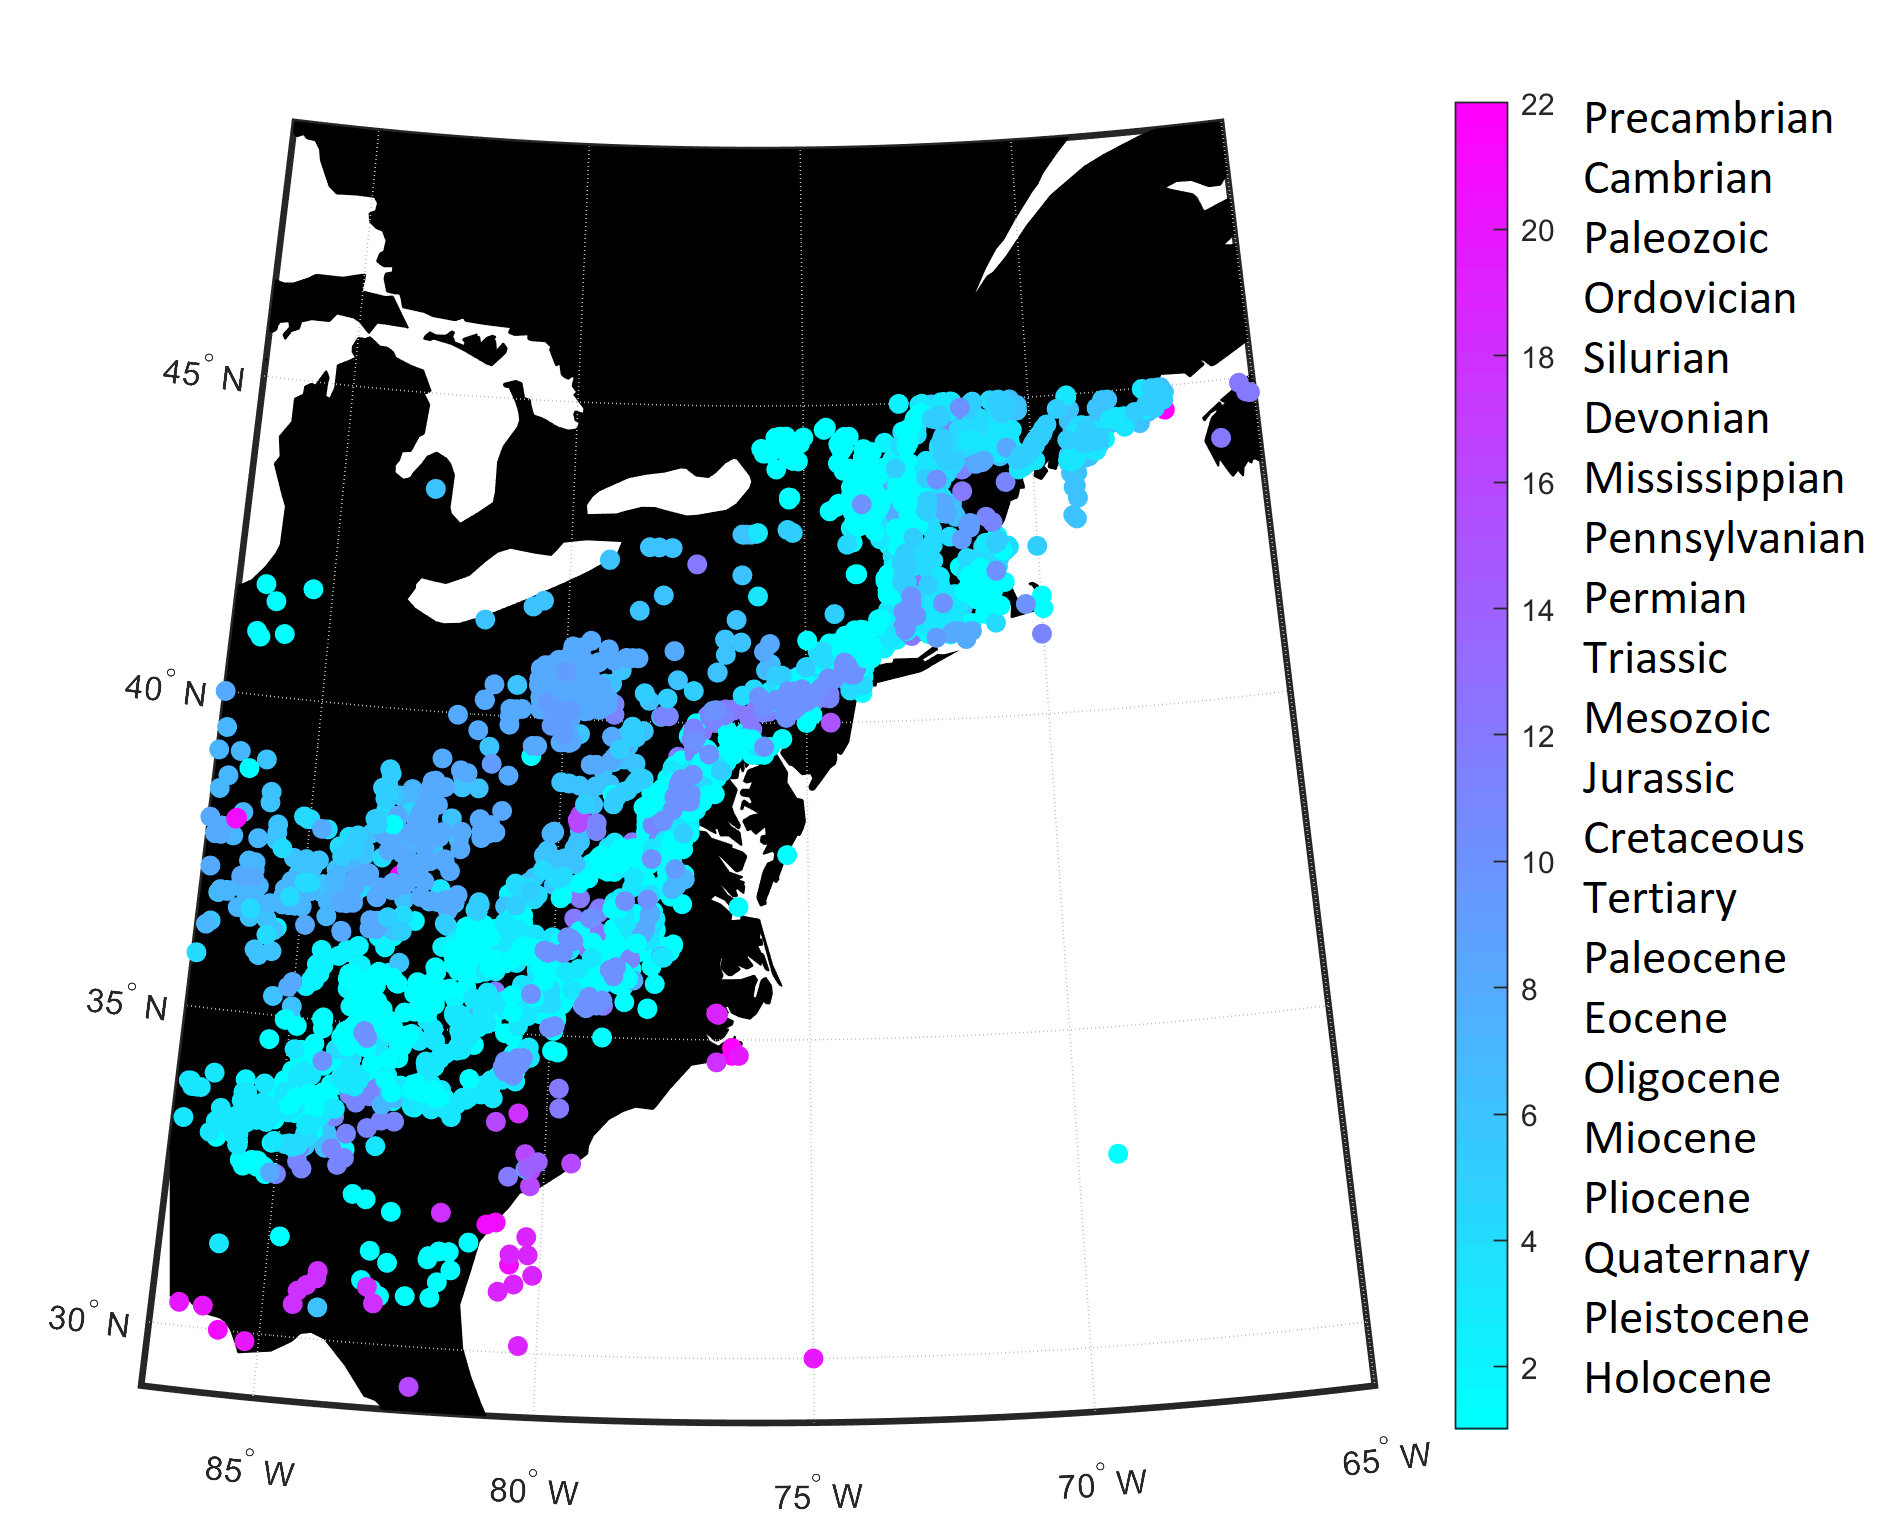
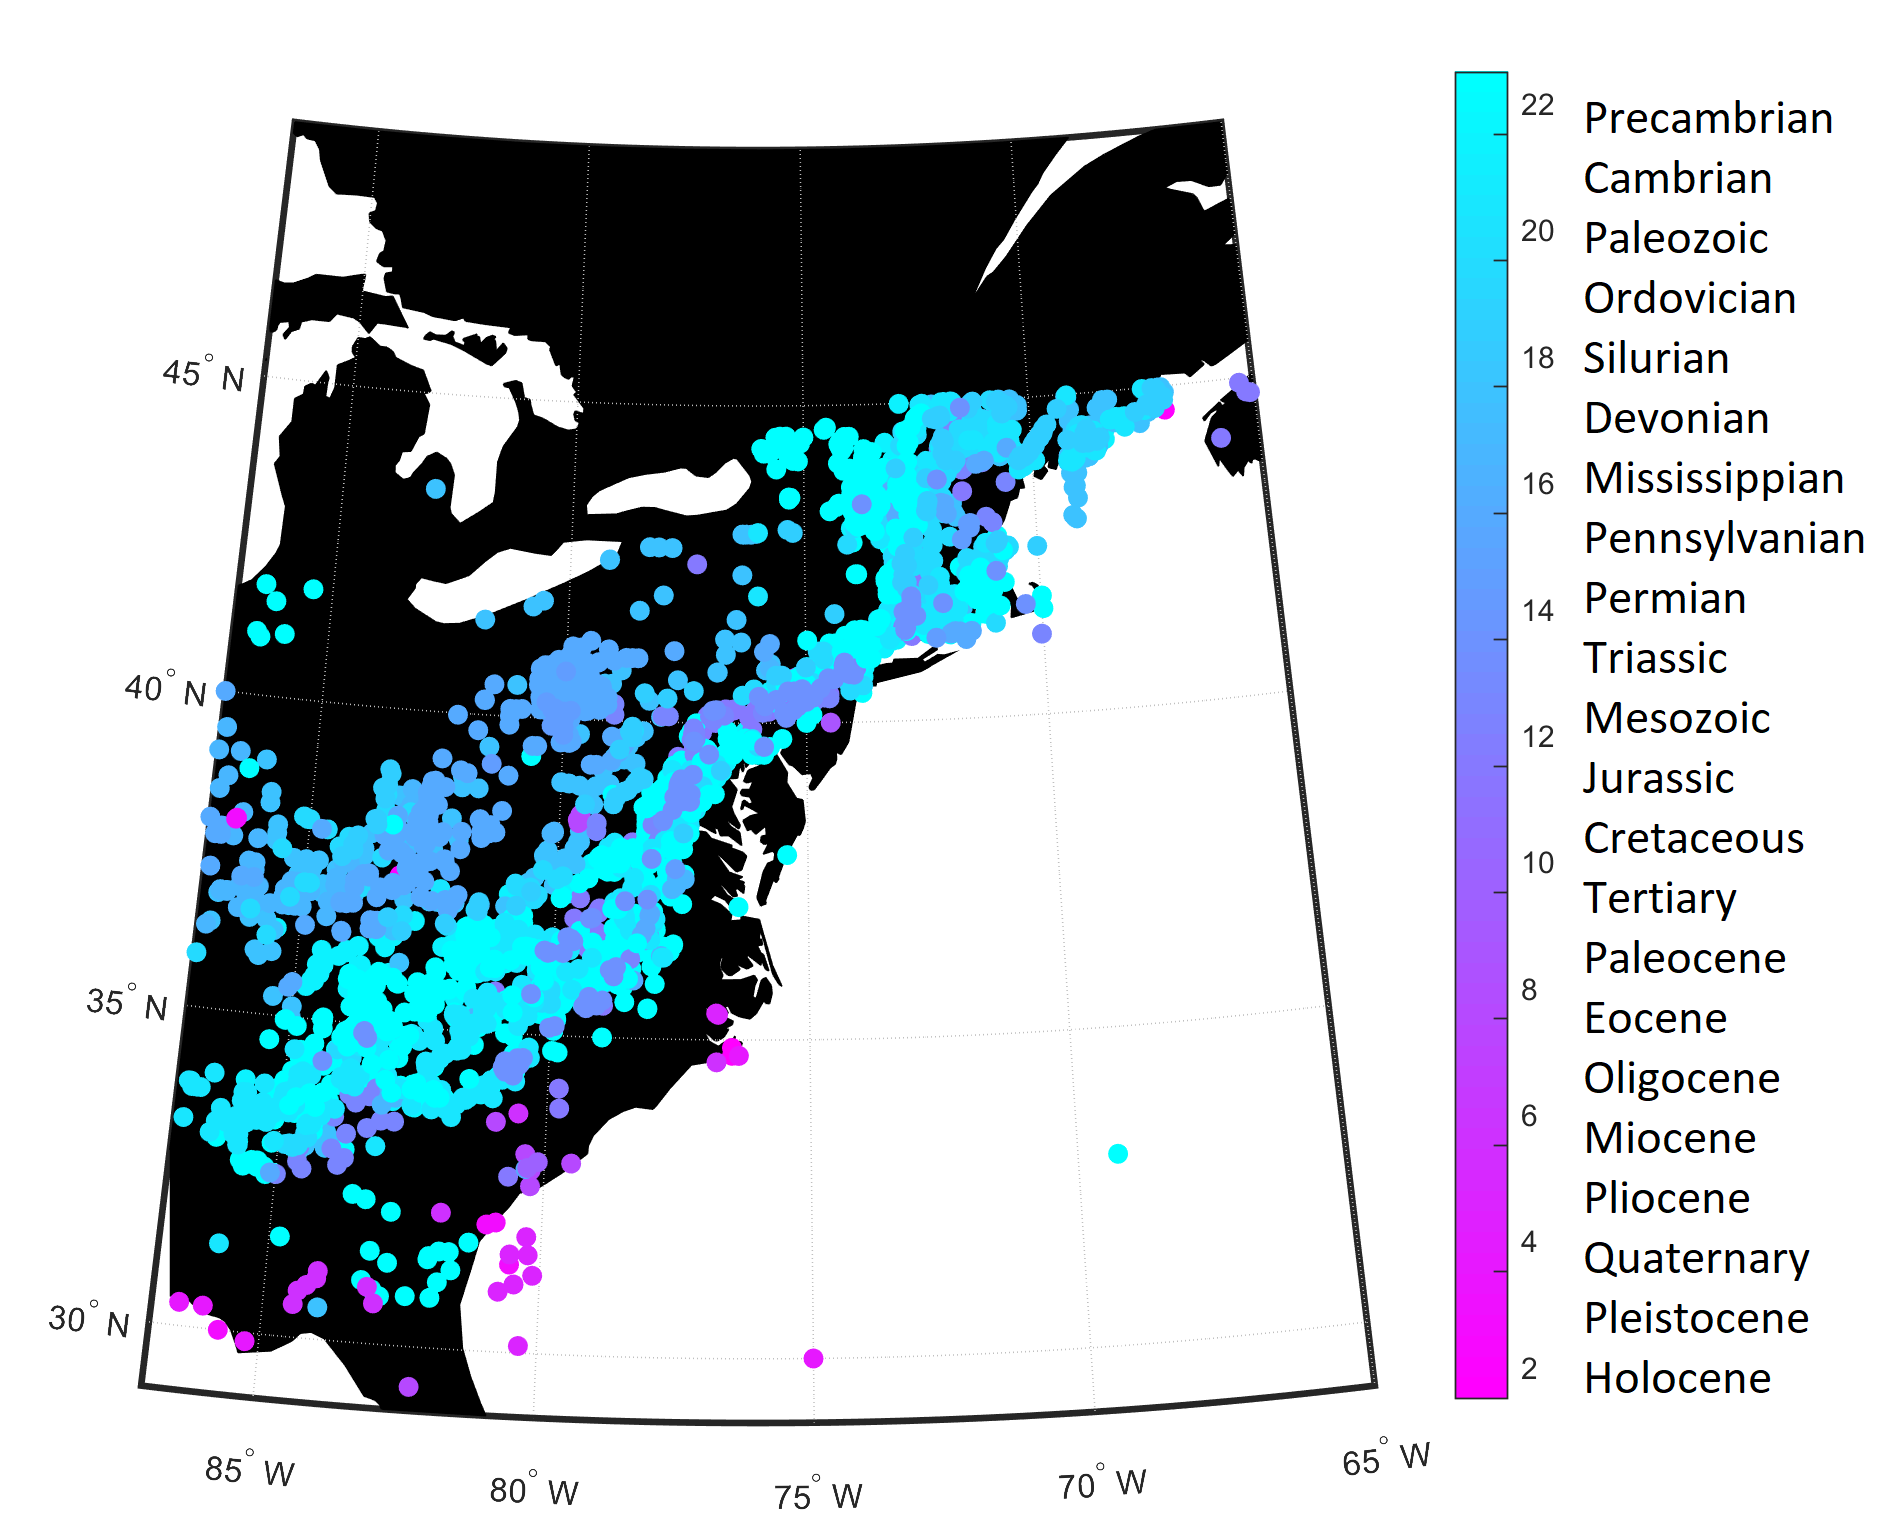
figures from version 1 write up, reorganizing of the time periods of samples from each data set

Changed region(s): [[0.7457, 0.5212, 0.8078, 0.9504], [0.7457, 0.0307, 0.8078, 0.4599]]

diff --git a/CSVstartercode.m b/CSVstartercode.m
@@ -2,56 +2,62 @@
 %Paleozoic
     filename = 'Paleozoic_strata_1994-2012_filt.csv'; 
     strata = readtable(filename);
+    strata = sortrows(strata,10); %this line was lower in the next part but makes more sense to put it here
 %Rock Geo
     filename = 'tblRockGeoData_filt.csv';
     rockGeo = readtable(filename);
 
-%% Era Sorting 
+%% Period sorting for STRATA
 uniqueEras = unique(strata.Series_System);
-sortedData = sortrows(strata, 10);
 
-% arranged oldest to youngest with most general era older
-CAMBRIAN = sortedData(1:11,:); %oldest Table: cambrianTable
-upperCAM = sortedData(462,:);
-ORD = sortedData(370:422,:);
-midORD = sortedData(349:352,:);
-lowerORD = sortedData(72:77,:);
-upperORD = sortedData(885:1043,:);
-SIL = sortedData(423:461,:);
-DEVONIAN = sortedData(12:63,:);
-midDEV = sortedData(78:348,:);
-midUpDEV = sortedData(353:362,:);
-upperDEV = sortedData(463:884,:);
-lowerMISS = sortedData(64:71,:);
-MISS = sortedData(363:369,:); %youngest Table: missTable
+%Assigning numbers to STRATA periods so they are mappable with each period=number 
+strataPERIODS = NaN*zeros(1043,1);
 
-periods = {DEVONIAN; midDEV; midUpDEV; upperDEV; CAMBRIAN; upperCAM; ORD; midORD;  lowerORD; upperORD; SIL; lowerMISS; MISS};
-periodNAMES = { 'DEVONIAN' 'DEVONIAN' 'DEVONIAN' 'DEVONIAN' 'CAMBRIAN' 'CAMBRIAN' 'ORDOVICIAN' 'ORDOVICIAN' 'ORDOVICIAN' 'ORDOVICIAN' 'SILURIAN''MISSISSIPPIAN' 'MISSISSIPPIAN'};
-
-%% same as above for rockGeo
-period = {'Precambrian' 'Cambrian' 'Paleozoic' 'Ordovician' 'Silurian' 'Devonian' 'Mississippian' 'Pennsylvanian'...
+CAMBRIAN = strata(1:11,:); %oldest Table: cambrianTable
+        strataPERIODS(1:11) =  2;
+upperCAM = strata(462,:);
+        strataPERIODS(462) = 2.5;
+ORD = strata(370:422,:);
+        strataPERIODS(370:422) = 4;
+midORD = strata(349:352,:);
+        strataPERIODS(349:352) = 4.3;
+lowerORD = strata(72:77,:);
+        strataPERIODS(72:77) = 4.6;
+upperORD = strata(885:1043,:);
+        strataPERIODS(885:1043) = 4.9;
+SIL = strata(423:461,:);
+        strataPERIODS(423:461) = 5;
+DEVONIAN = strata(12:63,:);
+        strataPERIODS(12:63,:) = 6;
+midDEV = strata(78:348,:);
+        strataPERIODS(78:348) = 6.3;
+midUpDEV = strata(353:362,:);
+        strataPERIODS(353:362) = 6.6;
+upperDEV = strata(463:884,:);
+        strataPERIODS(463:884) = 6.9;
+lowerMISS = strata(64:71,:);
+        strataPERIODS(64:71) = 7;
+MISS = strata(363:369,:); %youngest Table: missTable
+        strataPERIODS(363:369) = 7.5;
+%% Period sorting for ROCKGEO -- same as above, but does it in a loop 
+rockNAMES = {'Precambrian' 'Cambrian' 'Paleozoic' 'Ordovician' 'Silurian' 'Devonian' 'Mississippian' 'Pennsylvanian'...
     'Permian' 'Triassic' 'Mesozoic' 'Jurassic' 'Cretaceous' 'Tertiary' 'PalEocene' 'Eocene' 'Oligocene' 'Miocene'...
     'Pliocene' 'Quaternary' 'Pleistocene' 'Holocene'};
-period = categorical(period);
-GEOL_AGE_filt = categorical(rockGeo.GEOL_AGE_filt);
-rockperiods = NaN*zeros(length(rockGeo.GEOL_AGE_filt),1);
+rockNAMES = categorical(rockNAMES); %makes names categorical 
+GEOL_AGE_filt = categorical(rockGeo.GEOL_AGE_filt); %preps the data to be categorical so you can sort by each period name
+rockperiods = NaN*zeros(length(rockGeo.GEOL_AGE_filt),1); %makes an index of the periods for each 
 for i=1:22
-    ind = find(GEOL_AGE_filt == period(i));
+    ind = find(GEOL_AGE_filt == rockNAMES(i));
     rockperiods(ind)= i;
 end
 
-%% Quartz map only
+%% Mapping Quartz from STRATA data set
 figure(1);clf;
     usamap({'ME','GA'}); geoshow('landareas.shp','FaceColor','black')
     scatterm(strata.LATITUDE, strata.LONGITUDE, strata.Quartz_, 'filled'); colorbar;
     
-%% Devonian time map
+%% Mapping Quartz, Feldspar, and Total Clay from STRATA data set
 figure(2);clf;
-    usamap({'ME','GA'}); geoshow('landareas.shp','FaceColor','black')
-    scatterm(DEVONIAN.LATITUDE, DEVONIAN.LONGITUDE, 14, 'filled'); colorbar;
-
-%% Quartz, Feldspar, and Total Clay maps
-figure(3);clf;
     subplot(221);
         usamap({'ME','GA'}); geoshow('landareas.shp','FaceColor','black')
         scatterm(strata.LATITUDE, strata.LONGITUDE, [], strata.Quartz_, 'filled'); colorbar; hold on;
@@ -65,7 +71,7 @@ figure(3);clf;
         scatterm(strata.LATITUDE, strata.LONGITUDE,[], strata.TotalClay_, 'filled'); colorbar;
         hcb=colorbar; title(hcb,'% total clay');
 
-%% Quartz vs Total clay
+%% Plotting Quartz vs Total Clay, Feldspar, Carbonate, and Illite
 figure(3);clf;
     scatter(strata.Quartz_, strata.TotalClay_, [], nicecolor('RRw'),'filled');
     xlabel('% quartz'); ylabel('% total clay');
@@ -79,15 +85,14 @@ figure(6);clf;
     scatter(strata.Quartz_, strata.Illite_, [], nicecolor('RBw'),'filled');
     xlabel('% quartz'); ylabel('% illite');
     
-%% data visualized by time era (grouped by overall period) 2 4 1 4 2
-periodCOLOR = {'rbbww' 'rbbww' 'rbbww' 'rbbww' 'rrb' 'rrb' 'rb' 'rb' 'rb' 'rb' 'rbww' 'rbbbwwwwww' 'rbbbwwwwww'};
+%% Mapping STRATA data by period (periods assigned to a number but NOT TO (time)SCALE) 
 figure(7);clf;
 usamap({'ME','GA'}); geoshow('landareas.shp','FaceColor','black'); hold on;
-for i=1:13
-    scatterm(periods{i}.LATITUDE, periods{i}.LONGITUDE, 25, nicecolor(periodCOLOR{i}), 'filled'); hold on;
-    %legend(periodNAMES{i});hold on;
+for i=1:length(unique(strataPERIODS))
+    %ind = find(strataPERIODS == i);
+    scatterm(strata.LATITUDE, strata.LONGITUDE, 25, strataPERIODS, 'filled'); colorbar; hold on;
 end
-%% total clay vs other minerals
+%% Plotting Total Clay vs Feldspar, Illite, Carbonate
 figure(8);clf;
     scatter(strata.TotalClay_, strata.Feldspar_, [], nicecolor('RRw'),'filled');
     xlabel('% clay'); ylabel('% feldspar');
@@ -97,9 +102,17 @@ figure(9);clf;
 figure(10);clf;
     scatter(strata.TotalClay_, strata.Carbonate_, [], nicecolor('Yyw'),'filled');
     xlabel('% clay'); ylabel('% carbonate');
-%% large figure showing regional "age" NOT TO SCALE
+%% Mapping ROCKGEO data by period (periods assigned to a number but NOT TO (time)SCALE) 
 figure(11);
-    usamap({'ME','AL'}); geoshow('landareas.shp','FaceColor','black');hold on;
+    usamap({'ME','TX'}); geoshow('landareas.shp','FaceColor','black');hold on;
     scatterm(rockGeo.LATITUDE, rockGeo.LONGITUDE, [], rockperiods, 'filled'); colorbar; hold on;
  
-
+%% Plotting Quartz vs Total Clay colored by period from STRATA data set
+figure(12);clf;
+    scatter(strata.Quartz_, strata.TotalClay_, [], strataPERIODS,'filled'); colorbar;
+    xlabel('% quartz'); ylabel('% total clay');
+    
+%% Plotting the ratio of Quartz/Total Clay by period
+figure(13);clf;
+    scatter(strataPERIODS, (strata.Quartz_./strata.TotalClay_), 'filled');
+    xlabel('% periods (numeric, check indices)'); ylabel('Quartz/Total Clay');
